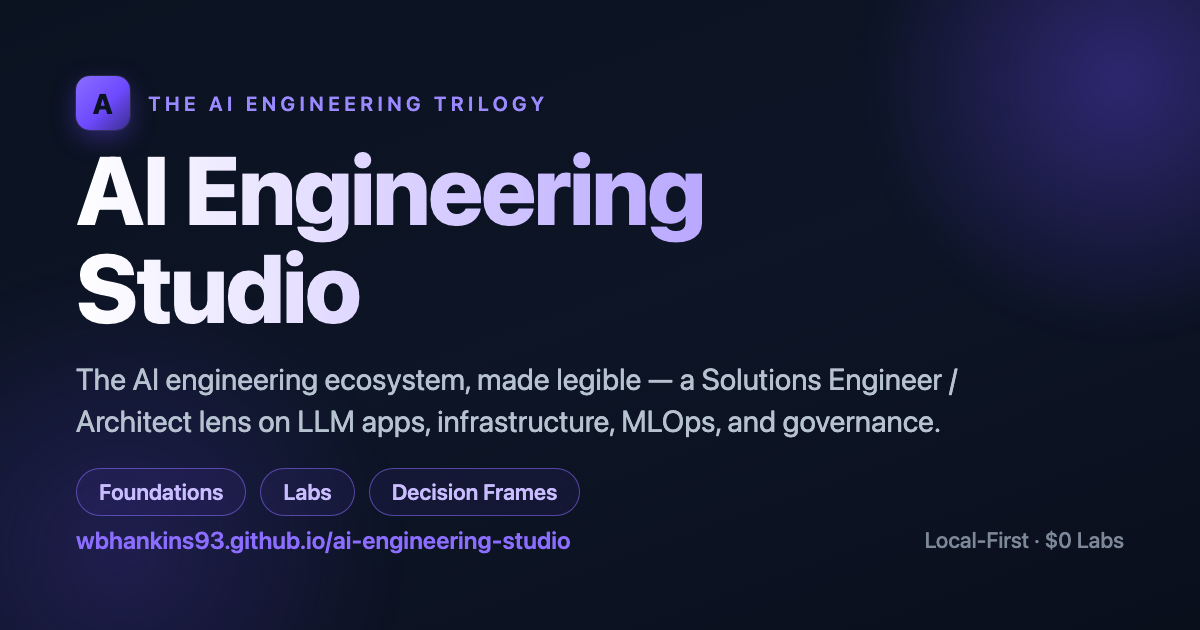
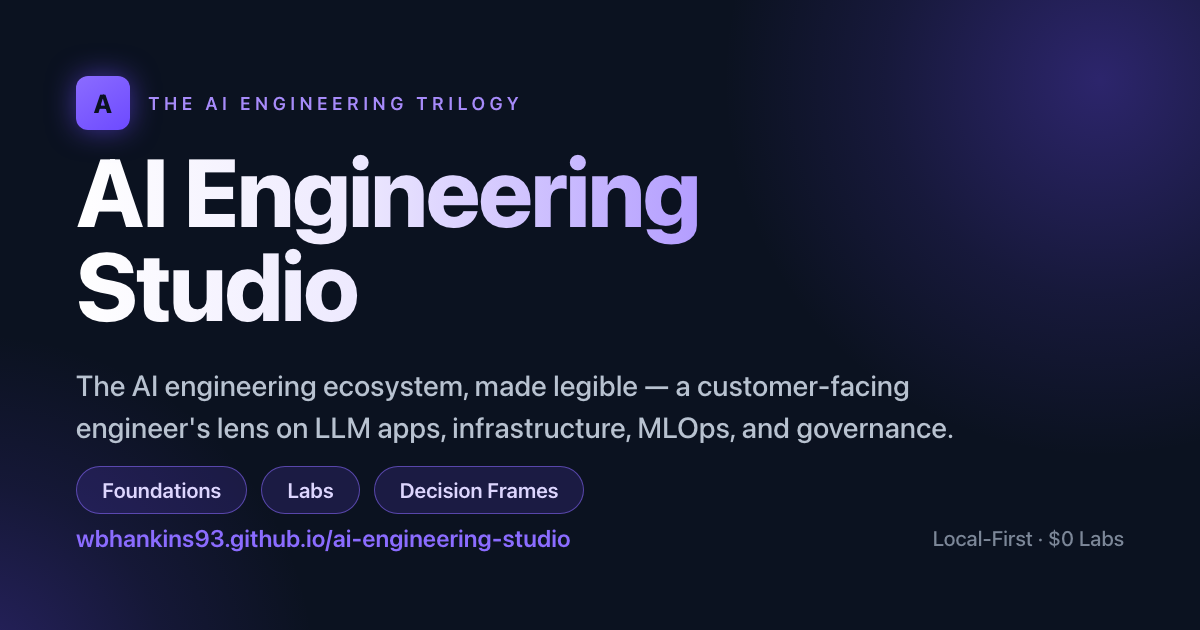
Reframe the home page and social preview for customer-facing engineers
The hero tagline, the site description, and the OG/Twitter card text all
still read "a Solutions Engineer / Architect lens", so the reframe landed
in the README but not on anything a visitor sees. The social preview had
the old line baked into the image itself.

Its HTML source was never committed, so the image is rebuilt from a
reconstructed template — same layout, palette, and type as the original,
tagline swapped — and that template now lives in visual-specs/og-image.html
with render instructions so the next edit does not need a reconstruction.

diff --git a/visual-specs/og-image.html b/visual-specs/og-image.html
@@ -1,0 +1,37 @@
+<!doctype html>
+<!--
+  Source for public/og-image.png (1200x630 social preview).
+  Render with headless Chrome from the repo root:
+    "/Applications/Google Chrome.app/Contents/MacOS/Google Chrome" --headless --disable-gpu \
+      --hide-scrollbars --force-device-scale-factor=1 --window-size=1200,630 \
+      --screenshot=public/og-image.png "file://$PWD/visual-specs/og-image.html"
+  Keep the tagline in sync with the site description in .vitepress/config.mts.
+-->
+<html><head><meta charset="utf-8"><style>
+
+*{margin:0;padding:0;box-sizing:border-box}
+html,body{width:1200px;height:630px;overflow:hidden}
+body{font-family:-apple-system, BlinkMacSystemFont, 'SF Pro Display', system-ui, sans-serif;background:#0b1220;position:relative;-webkit-font-smoothing:antialiased}
+.glow1{position:absolute;width:760px;height:760px;right:-280px;top:-300px;border-radius:50%;background:radial-gradient(circle,rgba(109,74,255,.34) 0%,rgba(109,74,255,.12) 40%,rgba(109,74,255,0) 70%)}
+.glow2{position:absolute;width:700px;height:700px;left:-380px;bottom:-400px;border-radius:50%;background:radial-gradient(circle,rgba(109,74,255,.30) 0%,rgba(109,74,255,.10) 40%,rgba(109,74,255,0) 70%)}
+.wrap{position:absolute;inset:0;padding:76px 76px 0 76px}
+.top{display:flex;align-items:center;gap:18px}
+.badge{width:54px;height:54px;border-radius:12px;background:linear-gradient(145deg,#8b6cff,#6d4aff);box-shadow:0 0 28px rgba(109,74,255,.55);display:flex;align-items:center;justify-content:center;font-weight:800;font-size:26px;color:#0b1220}
+.eyebrow{font-size:18px;font-weight:600;letter-spacing:4.4px;color:#a78bfa}
+h1{margin-top:14px;font-size:96px;font-weight:800;line-height:.98;letter-spacing:-2px;background:linear-gradient(90deg,#ffffff 0%,#ede9fe 45%,#b39dff 100%);-webkit-background-clip:text;color:transparent;width:max-content}
+.tag{margin-top:32px;font-size:29px;line-height:42px;font-weight:500;color:#b8c2d0;max-width:960px}
+.chips{margin-top:18px;display:flex;gap:14px}
+.chip{height:48px;padding:0 25px;border-radius:999px;border:1.5px solid rgba(139,108,255,.55);background:rgba(109,74,255,.16);color:#ddd6fe;font-size:21px;font-weight:600;display:flex;align-items:center}
+.foot{position:absolute;left:76px;right:76px;top:524px;display:flex;justify-content:space-between;align-items:center}
+.url{font-size:24px;font-weight:600;color:#8b6cff}
+.note{font-size:21px;font-weight:500;color:#7c8798}
+</style></head><body>
+<div class="glow1"></div><div class="glow2"></div>
+<div class="wrap">
+<div class="top"><div class="badge">A</div><div class="eyebrow">THE AI ENGINEERING TRILOGY</div></div>
+<h1>AI Engineering<br>Studio</h1>
+<p class="tag">The AI engineering ecosystem, made legible — a customer-facing engineer's lens on LLM apps, infrastructure, MLOps, and governance.</p>
+<div class="chips"><span class="chip">Foundations</span><span class="chip">Labs</span><span class="chip">Decision Frames</span></div>
+</div>
+<div class="foot"><span class="url">wbhankins93.github.io/ai-engineering-studio</span><span class="note">Local-First · $0 Labs</span></div>
+</body></html>

diff --git a/index.md b/index.md
@@ -4,7 +4,7 @@ layout: home
 hero:
   name: AI Engineering Studio
   text: The AI ecosystem, made legible.
-  tagline: A Solutions Engineer / Architect lens on LLM apps, infrastructure, MLOps, and governance — built to make the unknown known for technical and non-technical audiences alike.
+  tagline: A customer-facing engineer's lens on LLM apps, infrastructure, MLOps, and governance — translated into decisions, demos, and production plans a CTO and an engineer can both follow.
   actions:
     - theme: brand
       text: Start Here
@@ -15,10 +15,10 @@ hero:
 
 features:
   - title: Foundations on-ramp
-    details: No-math mental models, the four-layer map, an SA vocabulary glossary, and a 10-minute LangGraph intro. Get fluent fast.
+    details: No-math mental models, the four-layer map, a customer-conversation glossary, and a 10-minute LangGraph intro. Get fluent fast.
     link: /foundations/how-llms-actually-work
   - title: POC playbooks & decision frames
-    details: Scope an AI POC that survives a live demo. Frame build-vs-buy in dollars. The SE/SA spine.
+    details: Scope an AI POC that survives a live demo. Frame build-vs-buy in dollars. Turn the technical answer into a decision.
     link: /poc-playbooks/scoping-an-ai-poc
   - title: Hands-on labs
     details: Build real RAG, agents, and evals locally — deep where it matters, with context boxes so no reader is stranded. Labs 01–07 are live.
